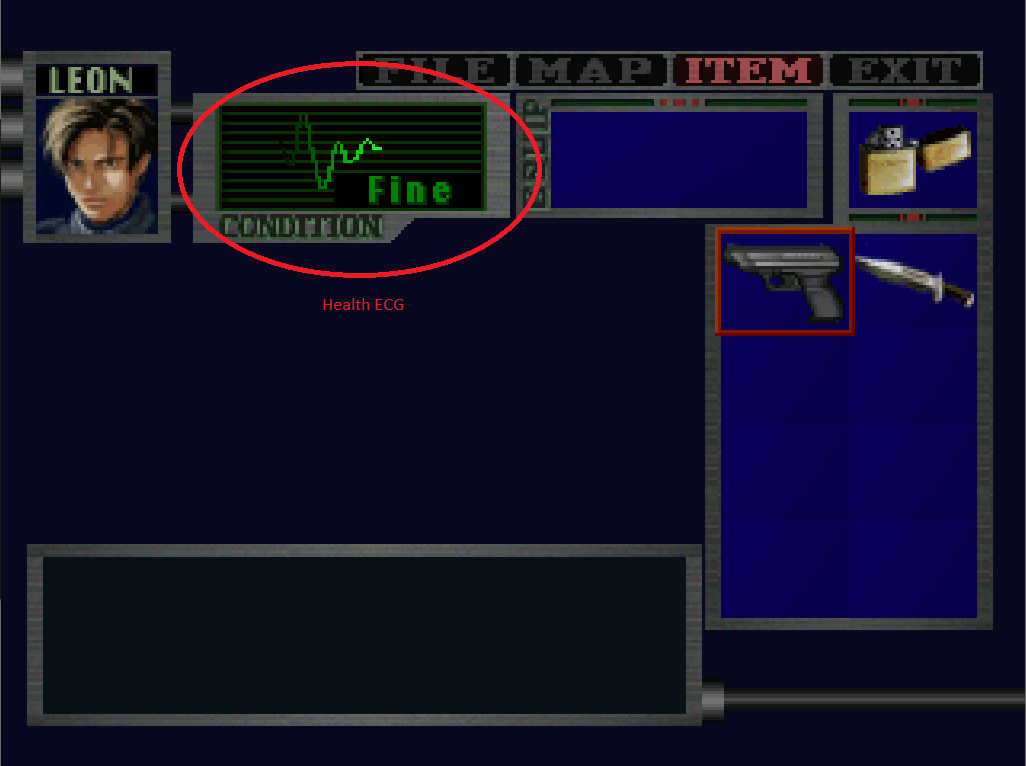
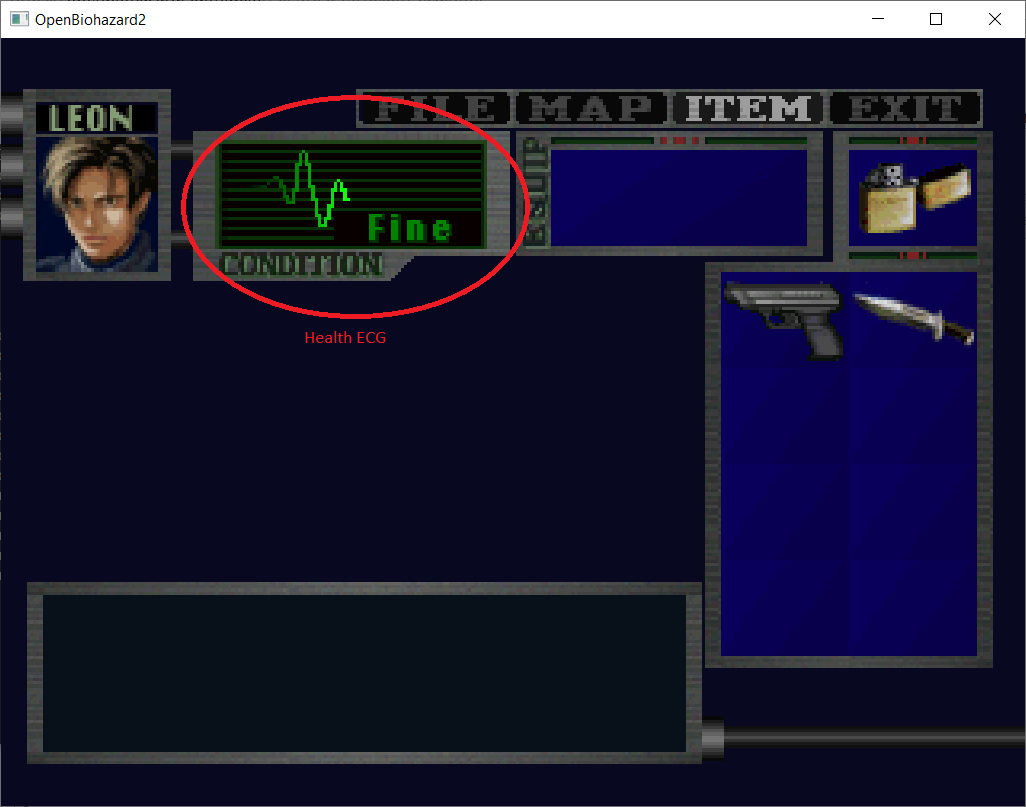
Updated health ECG post

diff --git a/_posts/2023-04-13-health-ecg.md b/_posts/2023-04-13-health-ecg.md
@@ -1,0 +1,76 @@
+# The Inventory Screen's Health ECG
+
+When the player opens up the inventory screen in the top part of the screen and they check their health, they can see the health ECG (Electrocardiogram) animation rendered.
+
+<div style="display:inline-block;">
+<img src="https://raw.githubusercontent.com/OpenBiohazard2/openbiohazard2.github.io/main/assets/img/health-ecg-inventory.png" />
+</div>
+
+In this article, we will go over how this animation is rendered in the original game and a reimplemented version of it in the Go programming language.
+
+## Initial Curve
+
+We will first start with the initial shape of the health ECG curve.
+
+There are multiple ways to model curved lines. In this case, the curve is composed of multiple vertical lines instead of one single curved line. When the vertical lines are combined together, the result will appear as a single contiguous curved line.
+
+The curve has 80 vertical lines. For each line, it is defined by a (yOffset, height) pair.
+* yOffset: The position from the top edge of the screen.
+* height: The height of the vertical line.
+
+Depending on the player's status, e.g. fine, caution, danger, etc., the shape of each health ECG curve is defined differently. The curve is hardcoded in the code as an array.
+
+```go
+	lines := [80][2]int{
+		{15, 0}, {15, 0}, {15, 0}, {15, 0}, {15, 0}, {15, 0}, {15, 0}, {15, 0}, {15, 0}, {15, 0},
+		{15, 0}, {15, 0}, {15, 0}, {14, 0}, {13, 0}, {12, 0}, {12, 0}, {13, 2}, {15, 3}, {18, 2},
+		{20, 0}, {16, 4}, {8, 8}, {5, 3}, {4, 0}, {5, 3}, {8, 7}, {15, 4}, {19, 5}, {24, 3},
+		{27, 0}, {25, 2}, {21, 4}, {16, 5}, {14, 2}, {13, 0}, {14, 2}, {16, 3}, {19, 0}, {19, 0},
+		{18, 0}, {16, 2}, {14, 2}, {13, 0}, {12, 0}, {13, 0}, {14, 1}, {15, 0}, {15, 0}, {15, 0},
+		{15, 0}, {15, 0}, {15, 0}, {15, 0}, {15, 0}, {15, 0}, {15, 0}, {15, 0}, {15, 0}, {15, 0},
+		{15, 0}, {15, 0}, {15, 0}, {15, 0}, {15, 0}, {15, 0}, {15, 0}, {15, 0}, {15, 0}, {15, 0},
+		{15, 0}, {15, 0}, {15, 0}, {15, 0}, {15, 0}, {15, 0}, {15, 0}, {15, 0}, {15, 0}, {15, 0},
+	}
+```
+
+The color and gradient is defined separately in RGB form, where the minimum value is 0 and the maximum value is 255. For example, ff we render the entire ECG curve for the "Fine" status as described by the array and set the color to green, it would look like this:
+
+<div style="display:inline-block;">
+<img src="https://raw.githubusercontent.com/OpenBiohazard2/openbiohazard2.github.io/main/assets/img/health-ecg-full-curve.png" />
+</div>
+
+## Gradient
+
+In the game, to create the effect of the health ECG curve moving from left to right, only a portion of the curve is rendered at any time. Another change is to draw the line with different colors so that the curve blends in with the black background.
+
+The code will try to draw multiple vertical lines from right to left. As we go from right to left, each line gets gradually darker. The color of the vertical line is defined by subtracting the gradient from the adjacent line on the right.
+
+For example, if the current line color is green (20, 255, 20) and the gradient is (1, 8, 1)
+1. The first line on the right at position x will have color (20, 255, 20).
+2. The second line, which is one pixel to the left of the first line, at position x - 1 will have color (20, 255, 20) - (1, 8, 1) = (19, 247, 19).
+3. The third line at position x - 2 will have color (19, 247, 19) - (1, 8, 1) = (18, 239, 18).
+4. The fourth line at position x - 3 will have color (17, 231, 17) and so on.
+
+You can see in the below image, the lines on the right of the screen have a bright color. As the lines to the left are drawn, the lines gradually get darker. Given the current x, the program will calculate the line's topmost Y using yOffset from the top of the screen and draw a line downwards based on the line height.
+
+<div style="display:inline-block;">
+<img src="https://raw.githubusercontent.com/OpenBiohazard2/openbiohazard2.github.io/main/assets/img/health-ecg-gradient.png" />
+</div>
+
+If we observe the color of each line from right to left, the gradient would eventually converge to black (0, 0, 0) because negative RGB values aren't allowed. The game will only draw up to 32 vertical lines at most to the left of the initial vertical line. If any vertical line goes to the left side of the ECG at x = 0, the line won't be rendered.
+
+## Sliding window
+
+In the below image, the left column shows the health ECG that is rendered in the game. The right column shows the entire curve drawn and a sliding window is drawn around the curve to show how the animation works.
+
+<div style="display:inline-block;">
+<img src="https://raw.githubusercontent.com/OpenBiohazard2/openbiohazard2.github.io/main/assets/img/health-ecg-program.png" />
+</div>
+
+For each frame, the current vertical line position will be incremented by 1, starting from x = 0 and going all the way up to x = 127. At each x, a series of vertical lines will be drawn and the colors of each of those lines will be set as described in the gradient section. This increment makes the animation smooth, since you gradually see the ECG line move from left to the right per frame.
+
+<div style="display:inline-block;">
+<img src="https://raw.githubusercontent.com/OpenBiohazard2/openbiohazard2.github.io/main/assets/img/health-ecg-animation.gif" />
+</div>
+
+If you want to see the full source code of how the health ECG works, you can view the full project <https://github.com/OpenBiohazard2/HealthECG>. This project takes code from OpenBiohazard2.

diff --git a/_posts/2023-04-12-introduction.md b/_posts/2023-04-12-introduction.md
@@ -1,0 +1,13 @@
+## Introduction
+
+OpenBiohazard2 was developed as an alternative open source software to the classic Resident Evil 2 PC version. The original Resident Evil 2 was launched in 1998 for Playstation 1. The game is a survival horror game that uses pre-rendered backgrounds. Biohazard 2 is the Japanese name for Resident Evil 2 and these names will be used interchangeably in this document.
+
+When the original Resident Evil 2 was ported to PC, the application was designed for Windows 98. However, the newer computer operating systems, Windows 7 and above, can't run the game directly. Currently to run Resident Evil 2 on the PC, the user has to download the Sourcenext version, which is an updated 2006 PC version of Resident Evil 2, and download a custom DLL developed by a 3rd party developer in order to get the game working. In the long run, it won't be sustainable to have to keep modifying a DLL to patch a closed source program.
+
+The other alternatives to running Resident Evil 2 is to download an emulator and run one of the various ports for the game, since the game was ported to N64 and Gamecube.
+
+OpenBiohazard2 is written in the Go programming languages and uses OpenGL for the graphics. In the latest build of the game, the user is able to load the rooms in the game and walk around inside. For most levels, if there is a door, the player can access other parts of the game by going through the door. Some of the scripted game events will run when the player enters a trigger zone.
+
+However, the game is still unplayable for multiple reasons. There are no zombies or puzzles to solve, which are needed for the game story to progress. One of the biggest challenges is reverse engineering the original code, which has been decoded to a certain extent by the modding community, but there is still not enough information on the rest of the code. There is enough knowledge to develop a standalone mod for the game, but not enough to rewrite the entire game in a different programming language.
+
+Since each room in the game is defined by the scripts in the room, the next step is to figure out how each function in the scripting system works. I have been working on a GUI to display the room script in a cleaner format. There is still a lot of remaining work to be done before the project reaches a playable state.
